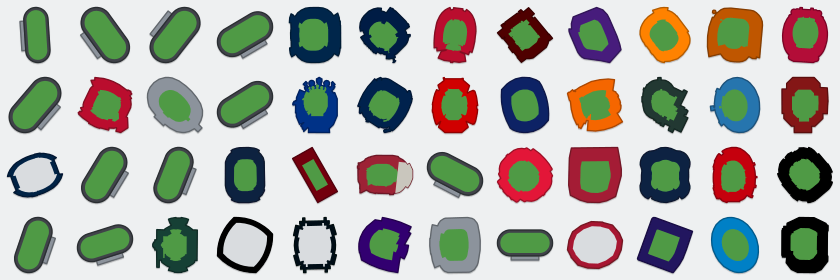
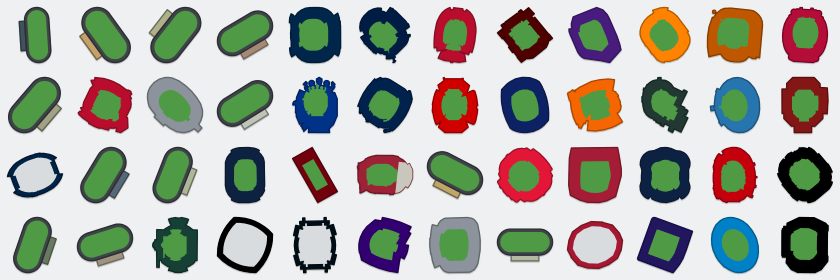
Stadium overhaul site integration: hero art card with credits, racetrack size cap and grandstand color, brick viewer removed
Claude-Session: https://claude.ai/code/session_01C5PnapxgJNtXNmtS3P7or9

diff --git a/src/pages/Stadiums.jsx b/src/pages/Stadiums.jsx
@@ -154,7 +154,7 @@ export default function Stadiums() {
         </div>
         <h1 className="section-title text-3xl sm:text-[32px]">Every US venue with 15,000+ seats, to scale</h1>
         <p className="text-sm text-graphite mt-2 max-w-3xl">
-          {all.length ? `${fmt(all.length)} stadiums, arenas, ballparks, racetracks and tennis venues.` : 'Stadiums, arenas, ballparks, racetracks and tennis venues.'} Each brick-built model is sized by seated capacity, so a 100,000-seat bowl looks bigger than a 20,000-seat arena. Click one for its numbers.
+          {all.length ? `${fmt(all.length)} stadiums, arenas, ballparks, racetracks and tennis venues.` : 'Stadiums, arenas, ballparks, racetracks and tennis venues.'} Each venue is drawn as a miniature scale model of the real building, sized by seated capacity, so a 100,000-seat bowl looks bigger than a 20,000-seat arena. Click one for its numbers.
         </p>
         <div className="mt-4 flex flex-col lg:flex-row lg:items-center gap-3">
           <Search venues={all} onPick={(v) => { setFocus({ ...v }); open(v.s) }} />
@@ -208,7 +208,7 @@ export default function Stadiums() {
 
       <section className="max-w-7xl mx-auto px-4 sm:px-6 lg:px-8 py-4">
         <p className="text-xs text-slate leading-relaxed max-w-4xl">
-          Capacity is current official seated capacity (racetracks are estimates). Venue data from Wikipedia and official team, venue and school sites, cross-checked and cited per field. Footprints © OpenStreetMap contributors (ODbL). Map tiles by OpenFreeMap, © OpenMapTiles. Construction costs in 2025 dollars use BLS CPI-U. Brick models are stylized illustrations, not architectural drawings.
+          Capacity is current official seated capacity (racetracks are estimates). Venue data from Wikipedia and official team, venue and school sites, cross-checked and cited per field. Footprints © OpenStreetMap contributors (ODbL). Map tiles by OpenFreeMap, © OpenMapTiles. Construction costs in 2025 dollars use BLS CPI-U. Venue illustrations are generated from freely licensed photos (credited on each card) or from OpenStreetMap footprints and USGS aerial imagery; they are artistic renderings, not architectural drawings.
         </p>
       </section>
 

diff --git a/src/components/stadiums/LoadoutCard.jsx b/src/components/stadiums/LoadoutCard.jsx
@@ -1,6 +1,6 @@
 import { useEffect, useLayoutEffect, useRef, useState } from 'react'
 import { Link } from 'react-router-dom'
-import BrickModelViewer from './BrickModelViewer.jsx'
+import HeroArt from './HeroArt.jsx'
 
 const NA = 'N/A'
 const fmt = (n) => (n == null ? NA : n.toLocaleString('en-US'))
@@ -130,7 +130,7 @@ export default function LoadoutCard({ slug, exists, ranked, onClose, onNavigate 
 
         {v && (
           <div ref={stage} className="loadout-stage">
-            <BrickModelViewer key={v.slug} slug={v.slug} name={v.name} hasModel={v.art?.model} />
+            <HeroArt key={v.slug} slug={v.slug} name={v.name} />
             {wide && (
               <svg className="loadout-lines" width={geo?.W || 0} height={geo?.H || 0} aria-hidden="true">
                 {paths.map((p, i) => <path key={`${v.slug}-${i}`} d={p.d} style={{ '--len': p.len, '--delay': `${p.delay}s` }} />)}
@@ -151,6 +151,18 @@ export default function LoadoutCard({ slug, exists, ranked, onClose, onNavigate 
             <span className="whitespace-nowrap">Last verified {v.last_verified}.</span>
             {v.capacity_type === 'estimated' && <span className="block mt-1">Racetrack capacities are published estimates, so racetracks are ranked only against other motorsport venues.</span>}
             <span className="ml-2">Footprint © OpenStreetMap contributors.</span>
+            {v.art?.note && (
+              <span className="block mt-1">
+                {v.art.note}{' '}
+                {v.art.credits?.map((c) => (
+                  <span key={c.page} className="mr-2">
+                    <a href={c.page} target="_blank" rel="noopener noreferrer" className="underline underline-offset-2 hover:text-white">{c.title}</a>
+                    {c.author ? ` by ${c.author}` : ''}{c.license ? `, ${c.license}` : ''}.
+                  </span>
+                ))}
+                {v.art.license && <span>Illustration license: {v.art.license}.</span>}
+              </span>
+            )}
           </footer>
         )}
       </div>

diff --git a/src/utils/stadiumSizing.js b/src/utils/stadiumSizing.js
@@ -16,7 +16,12 @@ export function sizeUnits(capacity) {
 const REF = sizeUnits(100000)
 
 // Width in CSS pixels at a map zoom level.
-export function spritePx(capacity, zoom) {
+// Racetracks: capacities are 100k-250k estimates of mostly open ground, so their
+// marks are sized as if capped at RACETRACK_CAP; otherwise they dominate the map.
+export const RACETRACK_CAP = 70000
+
+export function spritePx(capacity, zoom, type) {
+  if (type === 'racetrack') capacity = Math.min(capacity || 0, RACETRACK_CAP)
   // A 100k venue is 50px at zoom 4; growth is quick to zoom 6, then gentle, like map landmarks.
   const at100k = zoom <= 6 ? 50 * Math.pow(1.3, zoom - 4) : 50 * 1.69 * Math.pow(1.12, zoom - 6)
   const floor = Math.min(30, 17 * Math.pow(1.22, zoom - 4))

diff --git a/src/components/stadiums/HeroArt.jsx b/src/components/stadiums/HeroArt.jsx
@@ -1,0 +1,17 @@
+// Venue illustration for the card: a miniature scale model of the real
+// building, generated from licensed photos or measured footprints
+// (docs/overhaul/brief.md). One WebP, no 3D runtime.
+export default function HeroArt({ slug, name }) {
+  return (
+    <div className="loadout-model">
+      <img
+        src={`/stadiums/hero/${slug}.webp`}
+        alt={`Scale-model illustration of ${name}`}
+        width="1600"
+        height="1600"
+        decoding="async"
+        onError={(e) => { e.currentTarget.style.visibility = 'hidden' }}
+      />
+    </div>
+  )
+}

diff --git a/src/components/stadiums/StadiumMap.jsx b/src/components/stadiums/StadiumMap.jsx
@@ -197,7 +197,7 @@ export default function StadiumMap({ venues, onSelect, focus, basemap = 'muted',
     const useAtlas = (v) => st.atlas && v.a && reveal < 1
     for (const v of sorted) {
       const p = map.project([v.lo, v.la])
-      const size = spritePx(v.cap, zoom)
+      const size = spritePx(v.cap, zoom, v.t)
       if (reveal === 0 && useAtlas(v) && st.sheets[v.a[0]] !== 'ready' && st.sheets[v.a[0]] !== 'failed') continue
       if (p.x < -size || p.y < -size || p.x > W + size || p.y > H + size) continue
       const r = size * 0.34

diff --git a/scripts/stadiums/overhaul/export_art.py b/scripts/stadiums/overhaul/export_art.py
@@ -1,0 +1,42 @@
+# Export the approved art for the site (brief step 5 and site integration).
+#   hero:    public/stadiums/hero/<slug>.webp     1600 px, on the thin scale-model base
+#   sprites: public/stadiums/sprites/<slug>-{512,256}.webp, no base (reads better at 220 px)
+#   credits: data/stadium-art-credits.json  { slug: { path, credits[], license, note } }
+# Input: a directory of final RGBA cutouts named <slug>.png (Real-ESRGAN output
+# from kaggle/upscale.py), plus finals-paths.json { slug: 'photo'|'fallback'|'generic' }.
+# Usage: python3 export_art.py <finals_dir> <paths.json> [slug ...]
+import json, os, sys
+from PIL import Image
+sys.path.insert(0, os.path.dirname(__file__))
+from qa import plinth, trim  # noqa: E402  same base board and trim as the approved pilot
+
+src, paths = sys.argv[1], json.load(open(sys.argv[2]))
+only = set(sys.argv[3:])
+VER = json.load(open('scripts/stadiums/refs/verified.json'))
+CRED = 'data/stadium-art-credits.json'
+credits = json.load(open(CRED)) if os.path.exists(CRED) else {}
+os.makedirs('public/stadiums/hero', exist_ok=True); os.makedirs('public/stadiums/sprites', exist_ok=True)
+GEN_NOTE = ('Illustration generated from a 3D model built from the OpenStreetMap footprint (© OpenStreetMap contributors, ODbL) '
+            'and USGS NAIP aerial imagery (public domain).')
+
+for f in sorted(os.listdir(src)):
+    if not f.endswith('.png'): continue
+    s = f[:-4]
+    if only and s not in only: continue
+    im = Image.open(os.path.join(src, f)).convert('RGBA')
+    hero = plinth(im).resize((1600, 1600), Image.LANCZOS)
+    hero.save(f'public/stadiums/hero/{s}.webp', quality=84, method=6)
+    sp = trim(im)
+    for n in (512, 256):
+        sp.resize((n, n), Image.LANCZOS).save(f'public/stadiums/sprites/{s}-{n}.webp', quality=86, method=6)
+    p = paths.get(s, 'generic')
+    if p == 'photo':
+        refs = [r for r in VER.get(s, []) if not str(r.get('role', '')).startswith(('detail', 'rejected'))][:1]
+        cr = [{'title': r['file'].replace('File:', ''), 'author': r.get('author'), 'license': r.get('license'), 'license_url': r.get('license_url'), 'page': r.get('page')} for r in refs]
+        sa = any('SA' in (r.get('license') or '') for r in refs)
+        credits[s] = {'path': 'photo', 'credits': cr, 'license': 'CC BY-SA 4.0' if sa else None,
+                      'note': 'Illustration derived from the photo below' + (' and shared under the same license.' if sa else '.')}
+    else:
+        credits[s] = {'path': p, 'credits': [], 'license': None, 'note': GEN_NOTE}
+    print(s, p)
+json.dump(credits, open(CRED, 'w'), indent=1, sort_keys=True)

diff --git a/docs/decisions-log.md b/docs/decisions-log.md
@@ -52,3 +52,6 @@ One line per decision made without Josh, with the reason. Newest last.
 | 2026-11-09 | Generic fallback path uses text-to-image with the flat render as a weak style reference (IP 0.2, ControlNet depth 0.75 / edges 0.55): config A of `jobs/fbtest.json` | In the 4-venue test, A gave real material detail (seat rows, brick, steel, roof panels) and kept the measured layout and sampled colors. B (the Ashe pilot image as style) drifted colors toward Ashe's blue. Long-tail venues get 2 seeds each to fit the free GPU quota; iconic ones 3. |
 | 2026-11-09 | Long-tail photo path: 33 of 42 references segmented cleanly (hull-filled); 5 resegmented with hand-marked boxes (`jobs/seg4.json`); 4 moved to the generic model because the venue is cut off at the frame edge (FirstBank, Rynearson, Fitton, Delaware) | Same rule as batch 1: never generate from a partial venue. |
 | 2026-11-09 | Batch 1 signage venues regenerated with signs blanked on the reference (`batch1e`) | Picks: Bank of America 303, Nissan 101, State Farm 303, NRG 303; Raymond James 303 and Spartan 101 from attempt 3 (`batch1f`). Blanked signs come out as plain panels, as the brief asks. Remaining lettering is marked for the cleanup pass. |
+| 2026-11-09 | Card hero uses the art on the thin base board; map sprites use it without the base | The base reads as a scale model at hero size; at 220 px it is a gray strip that adds no information. Both variants were in the approved pilot. |
+| 2026-11-09 | `BrickModelViewer` (three.js GLB viewer) replaced by a single hero WebP (`HeroArt.jsx`); image credits and the derived-work license shown in the card footer from `data/stadium-art-credits.json` | Brief: replace the brick art everywhere and credit every image derived from a licensed photo. Art derived from CC BY-SA photos is marked CC BY-SA 4.0. Generic-model art credits OSM (ODbL) and USGS NAIP (public domain). Drops three.js from the card path. |
+| 2026-11-09 | Racetrack map marks sized as if capacity were capped at 70,000, and their grandstand drawn in the seat color sampled from the NAIP aerial (saturated), with a deeper grandstand band | Brief: racetracks dominated the map as giant gray pills. Their capacities (100k-250k) are estimates over mostly open ground. |
